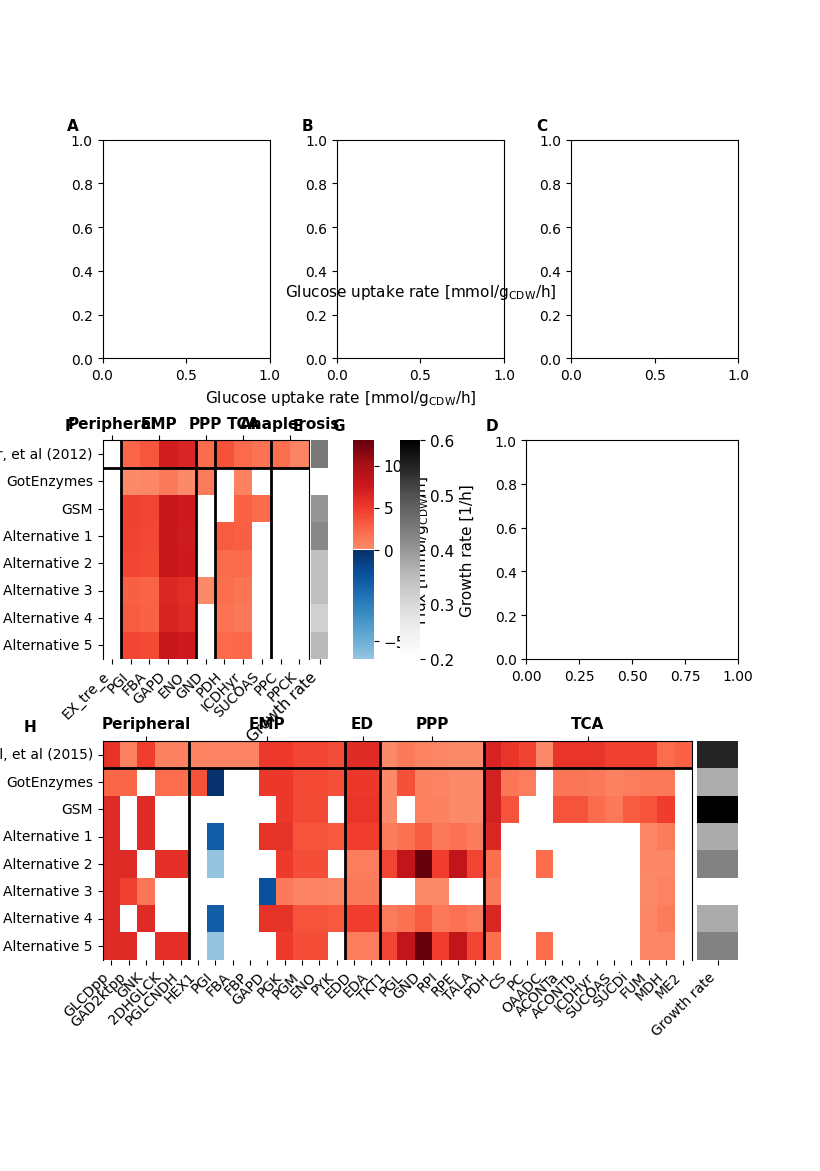
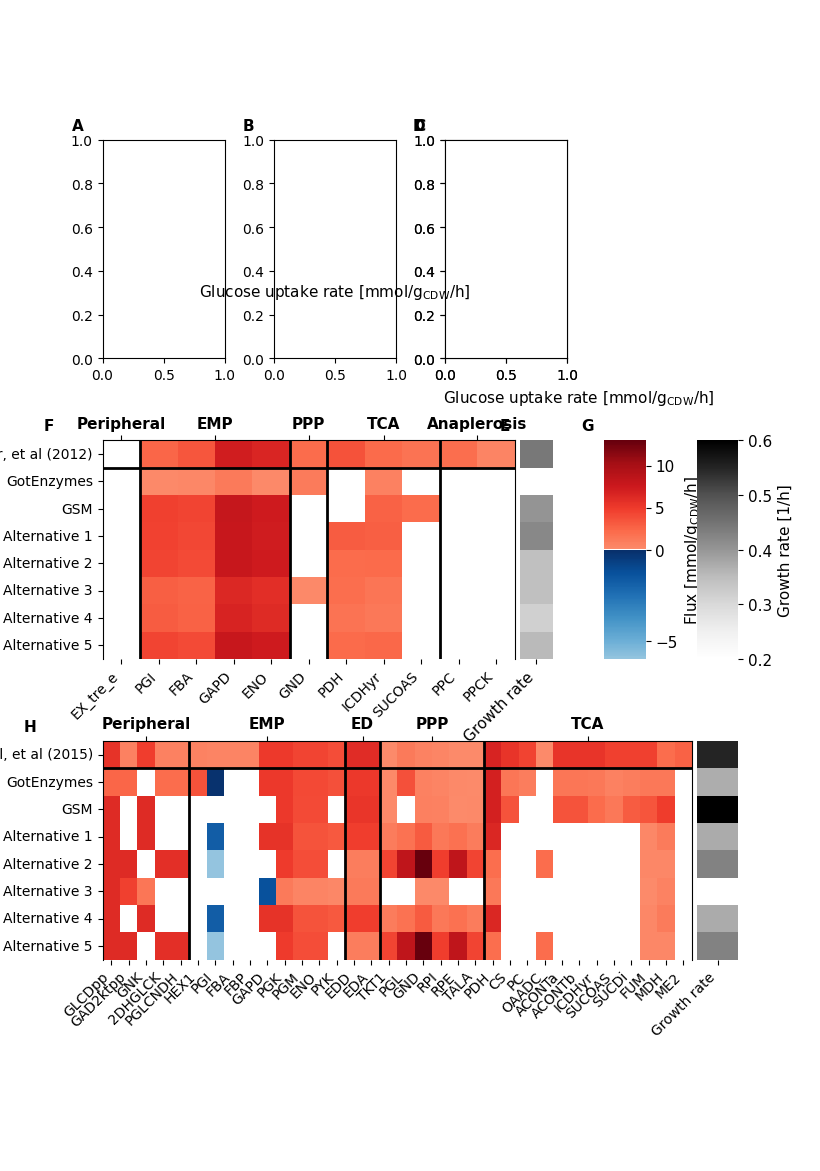
finalized fig 4

diff --git a/Figures/Scripts/Figure3_alternative_models.py b/Figures/Scripts/Figure3_alternative_models.py
@@ -75,19 +75,17 @@ def main():
         **other_colors}
 
     fig = plt.figure(figsize=(21/2.56, 30/2.56))
-    gs_main = gridspec.GridSpec(4, 1, height_ratios=[4,4,4,0.01], hspace=0.5)
+    gs_main = gridspec.GridSpec(4, 1, height_ratios=[4,4,4,3], hspace=0.5)
 
     gs_cgb_fluxes = gridspec.GridSpecFromSubplotSpec(1, 3, subplot_spec=gs_main[0],
                                                     wspace=0.4)
-    gs_mixed = gridspec.GridSpecFromSubplotSpec(1, 2, subplot_spec=gs_main[1],
-                                                    wspace=0.4,
-                                                    width_ratios=[3,2])
-    gs_ijn_fluxes =gridspec.GridSpecFromSubplotSpec(1, 1, subplot_spec=gs_mixed[1])
+    # gs_cgb = gridspec.GridSpecFromSubplotSpec(1, 1, subplot_spec=gs_main[1])
+    gs_ijn_fluxes_legend =gridspec.GridSpecFromSubplotSpec(1, 2, subplot_spec=gs_main[-1], width_ratios=[2,1])
     i=0
     axs = []
     for pamparamsetup, gs,gem_file, kcat_file_list, kwargs, rxns_to_plot in zip(
             [pamparam_setup_icgb21fr, pamparam_setup_ijn1463],
-            [gs_cgb_fluxes, gs_ijn_fluxes],
+            [gs_cgb_fluxes, gs_ijn_fluxes_legend],
             [os.path.join('Models', file) for file in ['iCGB21FR_annotated_copyable.xml', 'iJN1463.xml']],
             [PAM_KCAT_FILES_ICG, PAM_KCAT_FILES_IJN],
             [{'max_substrate_uptake_rate':-0.1,
@@ -122,16 +120,16 @@ def main():
         i+=1
 
 
-    plot_intracell_flux_distribution_icgb(gs = gs_mixed[0], fig = fig, fontsize = FONTSIZE, vrange=(-6,13))
+    plot_intracell_flux_distribution_icgb(gs = gs_main[1], fig = fig, fontsize = FONTSIZE, vrange=(-6,13))
     plot_intracell_flux_distribution_ijn(gs = gs_main[2], fig = fig, fontsize = FONTSIZE, vrange=(-6,13), cbar = False)
 
-    legend_ax = fig.add_subplot(gs_main[3])
+    legend_ax = fig.add_subplot(gs_ijn_fluxes_legend[-1])
     legend_ax.axis("off")  # Hide axes
     h, l = fig.axes[0].get_legend_handles_labels()
 
     legend_ax.legend(h, l, loc="center",
                      fontsize=FONTSIZE,
-                     ncol=5, frameon=False)
+                     ncol=1, frameon=False)
     #add annotation
     annotations = ["A", "B", "C", "D", "F", "G","E", "","","","","H"]
 

diff --git a/Figures/Scripts/Figure4_data_reduction.py b/Figures/Scripts/Figure4_data_reduction.py
@@ -120,14 +120,20 @@ def main():
 
 def main_datareduc():
     fig = plt.figure(figsize=(10.5/2.56, 15/2.56))  # Adjust overall size as needed
-    gs = gridspec.GridSpec(3, 1, hspace = 0.2, height_ratios=[1,1,0.1])
+    gs = gridspec.GridSpec(3, 1, hspace = 0, height_ratios=[1,1,0.1])
 
-    ax_a = fig.add_subplot(gs[0])
     ax_b = fig.add_subplot(gs[1])
+    ax_a = fig.add_subplot(gs[0], sharex=ax_b)
+    ax_b.grid(axis ='both', visible = True)
+    ax_a.grid(axis ='both', visible = True)
+
     final_errors = pd.read_excel(os.path.join('Results', 'data_reduction_results', 'r_squared_for_analysis.xlsx'))
     plot_progression_of_errors(final_errors, ax = ax_a, legend=False, fontsize = FONTSIZE)
     plot_deviation_of_error(final_errors, ax = ax_b, legend=False, fontsize = FONTSIZE)
 
+    ax_a.xaxis.grid(True)  # explicitly draw shared x-grid
+    ax_a.tick_params(axis='x', which='both', bottom=False, top=False, labelbottom=False)
+    ax_a.set_xlabel("")
     # ax_a = fig.add_subplot(gs[0])
 
     ax_legend = fig.add_subplot(gs[-1])
@@ -165,10 +171,10 @@ def main_datareduc():
         fontsize=FONTSIZE,
         ncol=2,
         frameon=False,
-        bbox_to_anchor=(-0.1, 0.5)
+        bbox_to_anchor=(-0.2, -0.7)
     )
 
-    annotations = ["A","B"]
+    annotations = ["B","A"]
     fontsize = FONTSIZE  # Adjust as needed
 
     for ax, label in zip(fig.axes, annotations):
@@ -177,7 +183,8 @@ def main_datareduc():
                     xytext=(-5, 5), textcoords="offset points",
                     ha="right", va="bottom")
 
-    # fig.tight_layout()
+    fig.tight_layout()
+    fig.subplots_adjust(left = 0.2)
     fig.savefig(os.path.join('Figures', 'Figure4_data_reduction.png'))
 
 if __name__ == "__main__":
